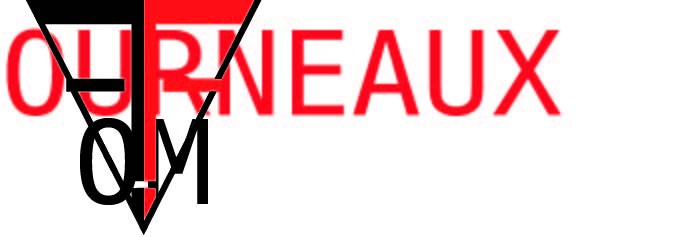
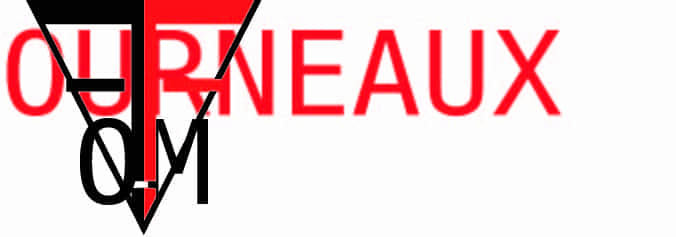
compressed img and responsive pages cv charte_graphique

diff --git a/src/pages/charte_graphique.jsx b/src/pages/charte_graphique.jsx
@@ -24,7 +24,7 @@ function Charte_Graphique() {
                     <p className="text-xs my-[5px] ml-[20px] lg:text-2xl lg:my-[5px] lg:mx-[40px]">Version verticale :</p>
                     <img src={logo_vertical} className="self-center max-w-[10rem] m-[10px] bg-white p-[10px] rounded-[10px]" alt="Logo Vertical Charte Graphique"/>
                     <p className="text-xs my-[5px] ml-[20px] lg:text-2xl lg:my-[5px] lg:mx-[40px]">Versions horizontales :</p>
-                    <div className="flex justify-around">
+                    <div className="flex items-center justify-around flex-col lg:flex-row">
                         <img className="max-w-[145px] m-[5px] p-[2px] bg-white rounded-[5px] lg:max-w-[20rem]" src={logo_horizontal} alt="Logo Horizontal Charte Graphique"/>
                         <img className="max-w-[145px] m-[5px] p-[2px] bg-white rounded-[5px] lg:max-w-[20rem]" src={logo_horizontal_inverse} alt="Logo Horizontal inversé"/>
                     </div>
@@ -37,40 +37,40 @@ function Charte_Graphique() {
                     <li>- Ne pas {"l'utiliser"} à de mauvaises fins</li>
                 </ul>
             </section>
-            <section className="section3">
+            <section>
                 <h2 className="mt-[50px] ml-[10px] text-base lg:text-3xl" >Interdits du logo :</h2>
                 <div className="interdit">
-                    <h3 className="text-xs ml-[20px] lg:text-2xl lg:ml-[40px]">Versions verticales :</h3>
-                    <div className="flex flex-col gap-[25px] lg:grid lg:grid-cols-2 lg:grid-rows-2 lg:justify-items-center lg:m-[20px]">
-                        <div className={`flex justify-around max-w-[400px] w-[400px] bg-white mb-[0px] m-[20px] p-[20px] rounded-[20px] transition:transform duration:300 hover:-translate-y-2 lg:gap-[20px] ${darkMode ? 'shadow-[10px_10px_5px_var(--color-grey)]' : 'shadow-[10px_10px_5px_black]'}`}>
+                    <h3 className="text-xs mt-[20px] ml-[20px] lg:text-2xl lg:ml-[40px]">Versions verticales :</h3>
+                    <div className="flex flex-col gap-[10px] lg:grid lg:grid-cols-2 lg:grid-rows-2 lg:justify-items-center lg:m-[20px]">
+                        <div className={`flex justify-around bg-white mb-[0px] mt-[10px] m-[20px] p-[20px] rounded-[20px] transition:transform duration:300 hover:-translate-y-2 lg:gap-[20px] lg:max-w-[400px] lg:w-[400px] ${darkMode ? 'shadow-[10px_10px_5px_var(--color-grey)]' : 'shadow-[10px_10px_5px_black]'}`}>
                             <img className="max-w-[100px] lg:max-w-[200px]" src={bg_black} alt="Fond noir, partie du logo non voyante" />
                             <p className="self-center text-xs text-black text-center m-[0] lg:text-2xl">Fond Noir</p>
                         </div>
-                        <div className={`flex justify-around max-w-[400px] w-[400px] bg-white mb-[0px] m-[20px] p-[20px] rounded-[20px] transition:transform duration:300 hover:-translate-y-2 lg:gap-[20px] ${darkMode ? 'shadow-[10px_10px_5px_var(--color-grey)]' : 'shadow-[10px_10px_5px_black]'}`}>
+                        <div className={`flex justify-around bg-white mb-[0px] m-[20px] p-[20px] rounded-[20px] transition:transform duration:300 hover:-translate-y-2 lg:gap-[20px] lg:max-w-[400px] lg:w-[400px] ${darkMode ? 'shadow-[10px_10px_5px_var(--color-grey)]' : 'shadow-[10px_10px_5px_black]'}`}>
                             <p className="self-center text-xs text-black text-center m-[0] lg:text-2xl">Fond Rouge</p>
                             <img className="max-w-[100px] lg:max-w-[200px]" src={bg_red} alt="Fond rouge, partie du logo non voyante"/>
                         </div>
-                        <div className={`flex justify-around max-w-[400px] w-[400px] bg-white mb-[0px] m-[20px] p-[20px] rounded-[20px] transition:transform duration:300 hover:-translate-y-2 lg:gap-[20px] ${darkMode ? 'shadow-[10px_10px_5px_var(--color-grey)]' : 'shadow-[10px_10px_5px_black]'}`}>
+                        <div className={`flex justify-around bg-white mb-[0px] m-[20px] p-[20px] rounded-[20px] transition:transform duration:300 hover:-translate-y-2 lg:gap-[20px] lg:max-w-[400px] lg:w-[400px] ${darkMode ? 'shadow-[10px_10px_5px_var(--color-grey)]' : 'shadow-[10px_10px_5px_black]'}`}>
                             <img className="max-w-[100px] lg:max-w-[200px]" src={upside_down} alt="A l'envers"/>
                             <p className="self-center text-xs text-black text-center m-[0] lg:text-2xl">A {"l'envers"}</p>
                         </div>
-                        <div className={`flex justify-around max-w-[400px] w-[400px] bg-white mb-[0px] m-[20px] p-[20px] rounded-[20px] transition:transform duration:300 hover:-translate-y-2 lg:gap-[20px] ${darkMode ? 'shadow-[10px_10px_5px_var(--color-grey)]' : 'shadow-[10px_10px_5px_black]'}`}>
+                        <div className={`flex justify-around bg-white mb-[0px] m-[20px] p-[20px] rounded-[20px] transition:transform duration:300 hover:-translate-y-2 lg:gap-[20px] lg:max-w-[400px] lg:w-[400px] ${darkMode ? 'shadow-[10px_10px_5px_var(--color-grey)]' : 'shadow-[10px_10px_5px_black]'}`}>
                             <p className="self-center text-xs text-black text-center m-[0] lg:text-2xl">Supprimer une partie du logo</p>
                             <img className="max-w-[100px] max-h-[100px] lg:max-w-[200px] lg:max-h-[200px]" src={supp_logo} alt="Supprimer une partie du logo"/>
                         </div>
                     </div>
-                    <h3 className="text-xs ml-[20px] lg:text-2xl lg:ml-[40px]">Versions horizontales :</h3>
-                    <div className="flex flex-col lg:justify-center lg:flex-row">
-                        <div className={`flex flex-col items-center bg-white mb-[0px] m-[20px] rounded-[20px] transition:transform duration:300 hover:-translate-y-2 ${darkMode ? 'shadow-[10px_10px_5px_var(--color-grey)]' : 'shadow-[10px_10px_5px_black]'}`}>
-                            <img className="max-w-[250px] p-[10px] lg:max-w-[20rem]" src={supp_letters} alt="Supprimer des lettres"/>
+                    <h3 className="text-xs mt-[20px] ml-[20px] lg:text-2xl lg:ml-[40px]">Versions horizontales :</h3>
+                    <div className="flex flex-col gap-[10px] lg:justify-center lg:flex-row">
+                        <div className={`flex flex-col items-center bg-white mt-[5px] mb-[0px] m-[20px] rounded-[20px] transition:transform duration:300 hover:-translate-y-2 ${darkMode ? 'shadow-[10px_10px_5px_var(--color-grey)]' : 'shadow-[10px_10px_5px_black]'}`}>
+                            <img className="p-[10px] lg:max-w-[20rem]" src={supp_letters} alt="Supprimer des lettres"/>
                             <p className="text-black m-[10px]">Supprimer des lettres</p>
                         </div>
                         <div className={`flex flex-col items-center bg-white mb-[0px] m-[20px] rounded-[20px] transition:transform duration:300 hover:-translate-y-2 ${darkMode ? 'shadow-[10px_10px_5px_var(--color-grey)]' : 'shadow-[10px_10px_5px_black]'}`}>
-                            <img className="max-w-[250px] p-[10px] lg:max-w-[20rem]" src={non_uniform} alt="Couleurs non uniformes"/>
+                            <img className="p-[10px] lg:max-w-[20rem]" src={non_uniform} alt="Couleurs non uniformes"/>
                             <p className="text-black m-[10px]">Couleurs non uniformes</p>
                         </div>
                         <div className={`flex flex-col items-center bg-white mb-[0px] m-[20px] rounded-[20px] transition:transform duration:300 hover:-translate-y-2 ${darkMode ? 'shadow-[10px_10px_5px_var(--color-grey)]' : 'shadow-[10px_10px_5px_black]'}`}>
-                            <img className="max-w-[250px] p-[10px] lg:max-w-[20rem]" src={merge} alt="Fusionner lettres et logo"/>
+                            <img className="p-[10px] lg:max-w-[20rem]" src={merge} alt="Fusionner lettres et logo"/>
                             <p className="text-black m-[10px]">Fusionner les lettres et le logo</p>
                         </div>
                     </div>
@@ -78,7 +78,7 @@ function Charte_Graphique() {
             </section>
             <section>
                 <h2 className="mt-[50px] ml-[10px] text-base lg:text-3xl" >Palette de couleurs :</h2>
-                <div className="flex justify-around">
+                <div className="flex justify-around items-center flex-col gap-[10px] lg:flex-row">
                     <div className="justify-items-center text-center w-[5rem] h-[5rem] bg-[#e21823] lg:flex lg:justify-center lg:w-[10rem] lg:h-[10rem]">
                         <span className="self-center">#e21823</span>
                     </div>

diff --git a/src/components/header.jsx b/src/components/header.jsx
@@ -32,7 +32,7 @@ const Header = () => {
                 <Link to="/charte_graphique" className="text-white p-[0.5rem] pl-[2rem] text-2xl hover:text-grey" onClick={() => { window.scrollTo(0, 0); setMenuOpen(false); }}>Charte Graphique</Link>
                 <Link to="/cv" className="text-white p-[0.5rem] pl-[2rem] text-2xl hover:text-grey" onClick={() => { window.scrollTo(0, 0); setMenuOpen(false); }}>CV</Link>
                 <Link to="/me_contacter" className="text-white p-[0.5rem] pl-[2rem] text-2xl hover:text-grey" onClick={() => { window.scrollTo(0, 0); setMenuOpen(false); }}>Contact</Link>
-                <button className="cursor-pointer px-[2rem]" title="Mode nuit" onClick={handleToggleDarkMode}>
+                <button className="cursor-pointer px-[2rem]" title="Mode nuit" onClick={() => { handleToggleDarkMode(); setMenuOpen(false); }}>
                     <span className="text-2xl">{isDark ? '🌙' : '☀'}</span>
                 </button>
             </nav>

diff --git a/src/pages/cv.jsx b/src/pages/cv.jsx
@@ -29,7 +29,7 @@ function CV() {
             <div className="lg:grid lg:grid-cols-2">
                 <section className="flex flex-col text-center border-5 border-solid border-[var(--color-cv-primary)]">
                     <div>
-                        <img src={TOM} alt="Photo de Profil CV Tom Fourneaux" className="justify-self-center max-w-[40%] mt-[20px] rounded-full border-5 border-solid border-[var(--color-cv-primary)]"/>
+                        <img src={TOM} alt="Photo de Profil CV Tom Fourneaux" className="m-auto max-w-[40%] mt-[20px] rounded-full border-5 border-solid border-[var(--color-cv-primary)]"/>
                         <h1 className="mt-[40px] mb-[10px]">TOM FOURNEAUX</h1>
                         <h2>DEVELOPPEUR WEB</h2>
                         <div className="text-center my-[20px] mx-[0px] p-[10px] bg-[var(--color-cv-primary)] inline-block rounded-[5px] shadow[5px_5px_5px_white]">
